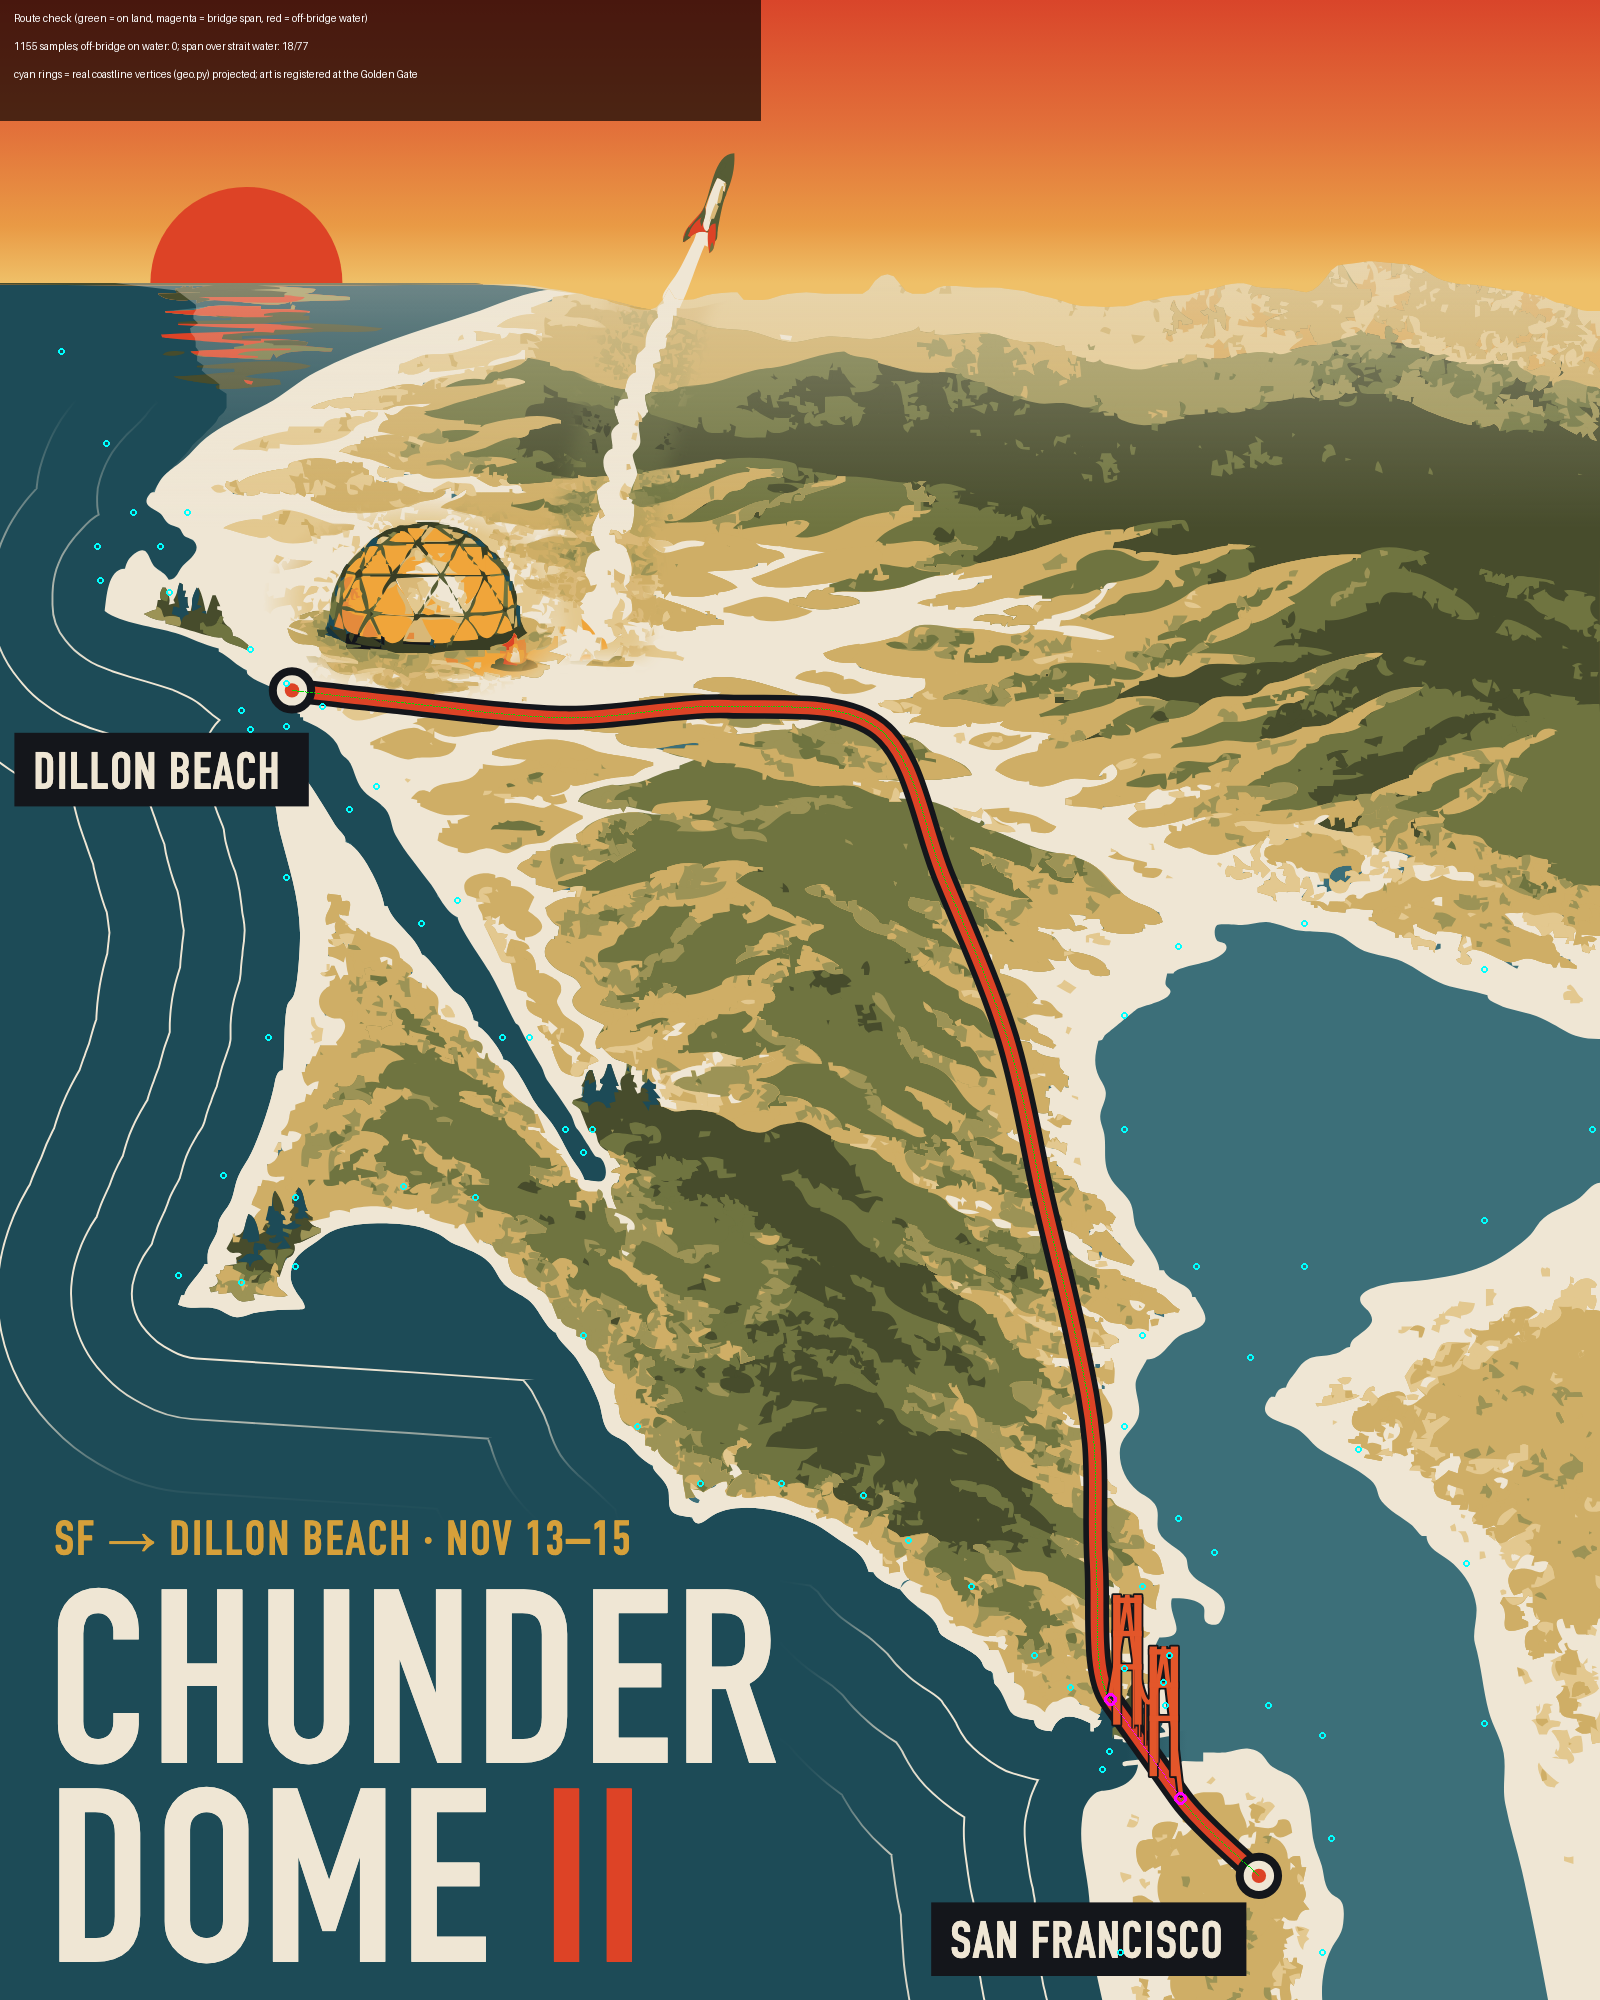
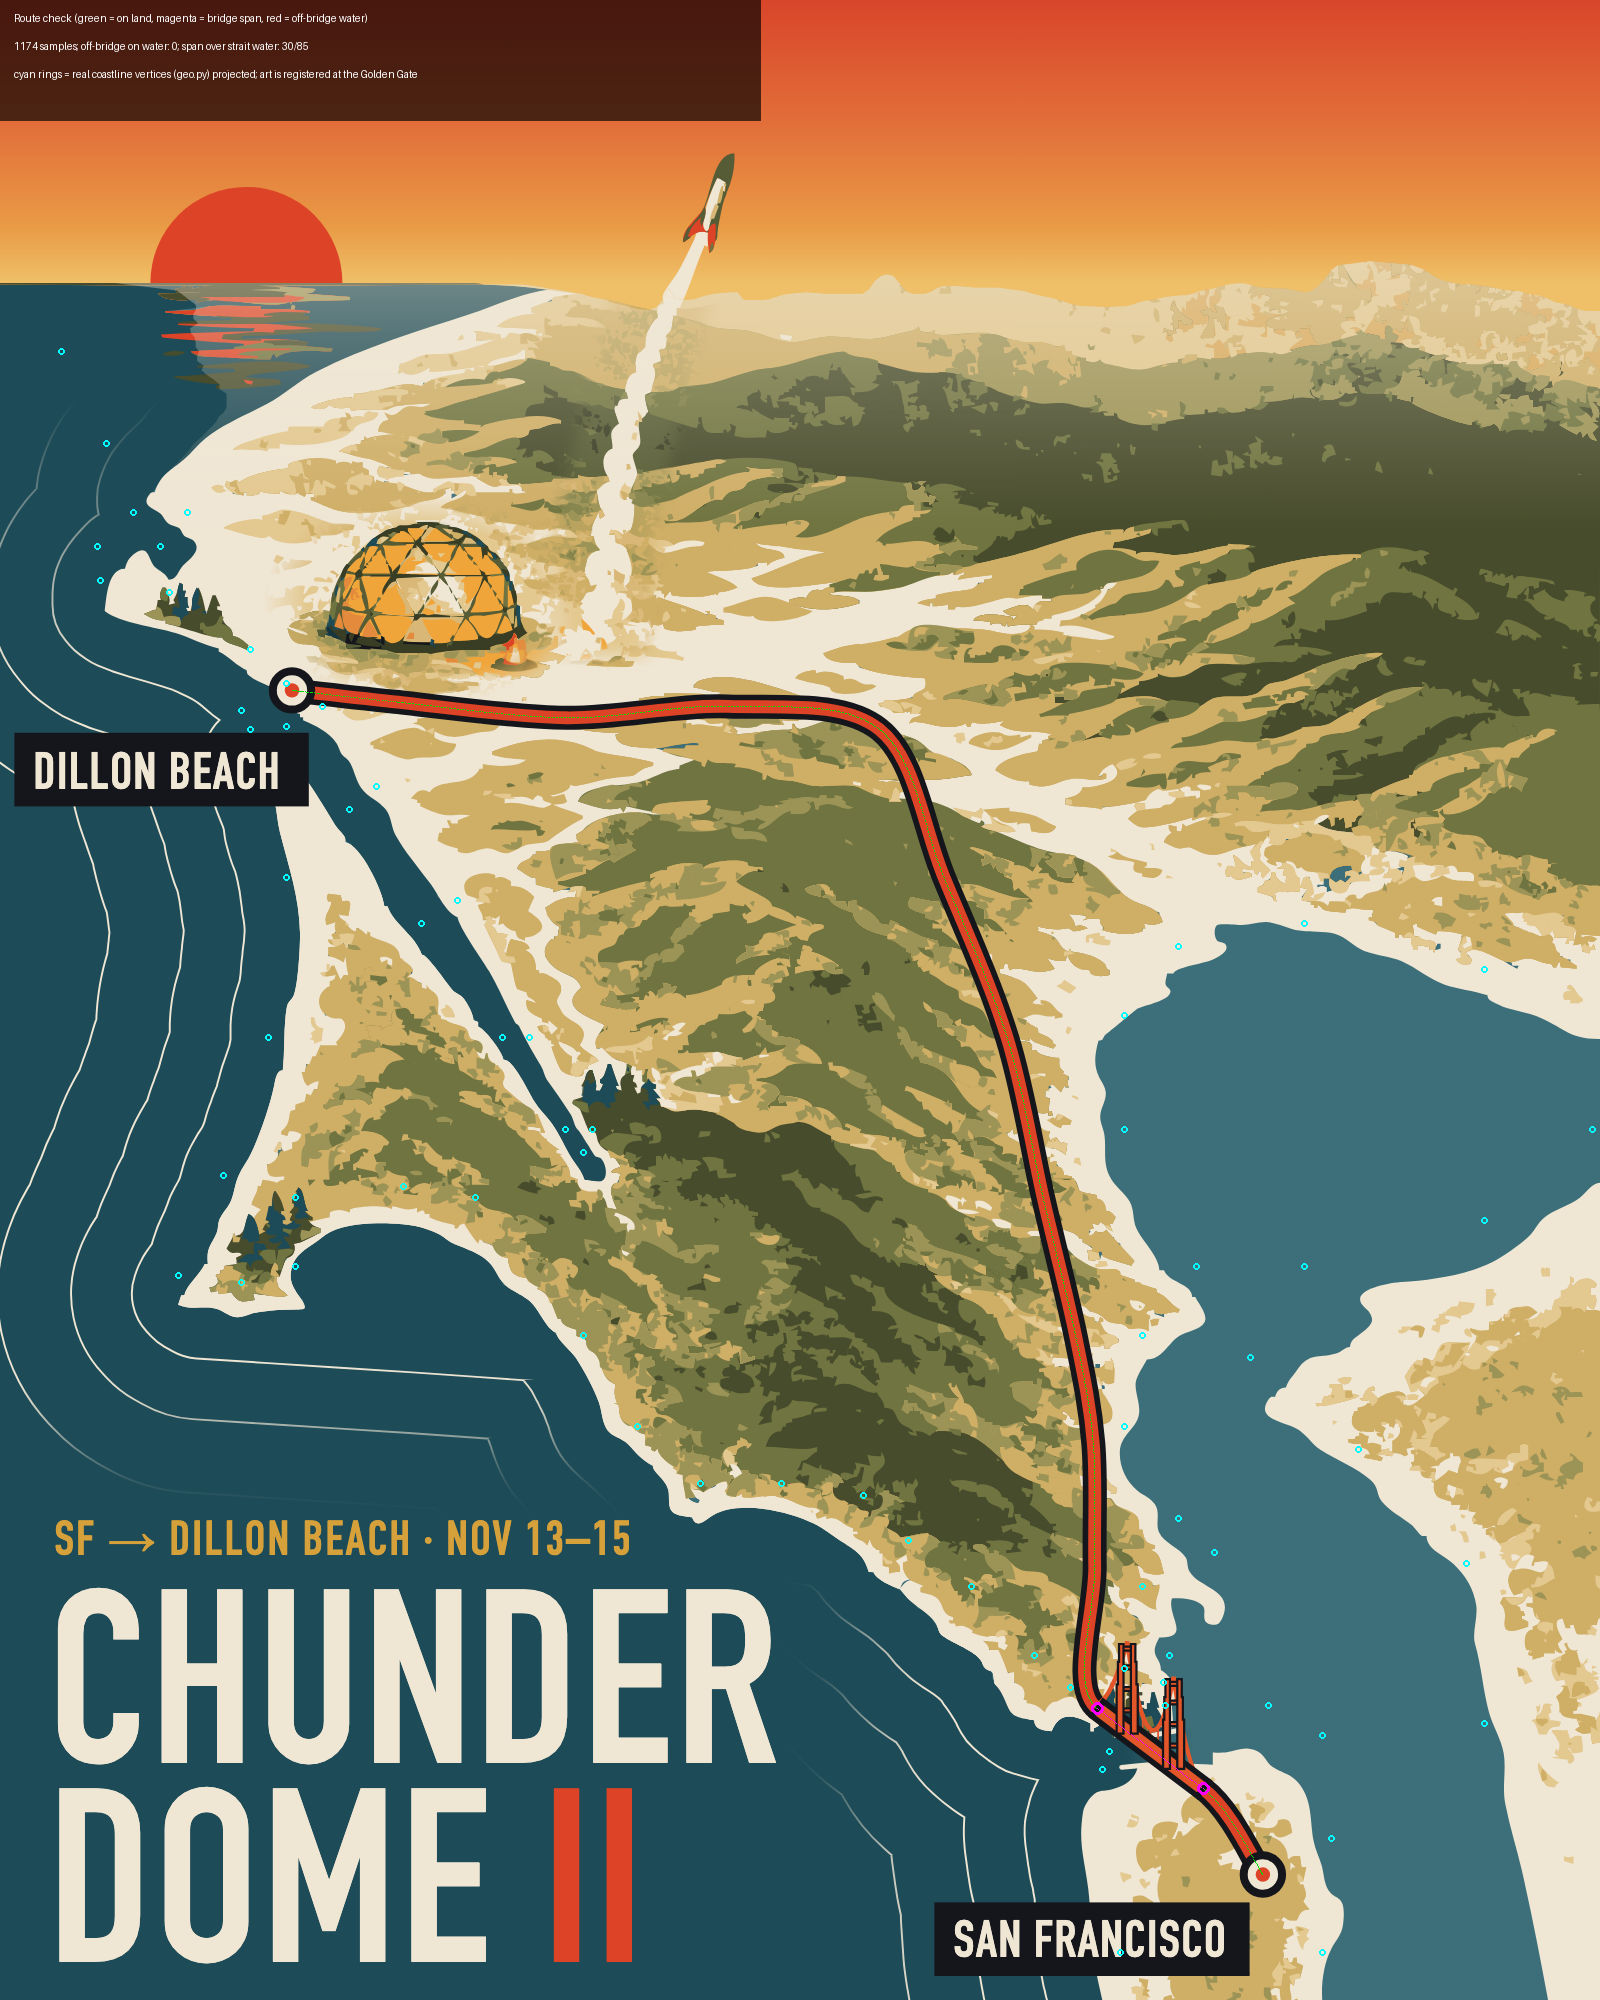
fix: redraw the Golden Gate Bridge cleanly
Upright Art-Deco towers at 28%/72% of a straight deck, one main cable with
catenary main span and vertical hangers, International Orange with a thin
ink outline. The route stops at each anchorage and the deck (same width
as the route) carries it across; strait widened so water reads on both
sides. verify_route.py: 0 of 1174 samples on water off the bridge.

Changed region(s): [[0.5938, 0.775, 0.8125, 0.992]]

diff --git a/map/poster/scripts/compose4.py b/map/poster/scripts/compose4.py
@@ -44,7 +44,7 @@ SOUTH, NORTH = 1, 2   # indices of the bridge anchorages in ROAD
 
 # The art drew the Golden Gate about 40px south of the projection, so register the route to the art with a
 # local displacement field: control points measured on raster-v5 (scripts/gridcrop.py), Gaussian falloff.
-BRIDGE_S, BRIDGE_N = (738.0, 1124.0), (694.0, 1062.0)   # anchorages on the art's SF tip and Marin headland (poster-scale span)
+BRIDGE_S, BRIDGE_N = (752.0, 1118.0), (686.0, 1068.0)   # anchorages on the art's SF tip and Marin headland (poster-scale span)
 CONTROLS = [(P(*ROAD[SOUTH]), BRIDGE_S), (P(*ROAD[NORTH]), BRIDGE_N), (P(*ROAD[0]), (786.0, 1170.0))]
 def register(p, sigma=60.0):
     import math
@@ -62,7 +62,8 @@ deck = (BRIDGE_N[0] - BRIDGE_S[0], BRIDGE_N[1] - BRIDGE_S[1])
 a, b = ROUTE_XY[SOUTH - 1], ROUTE_XY[NORTH + 1]
 head = smooth(ROUTE_XY[:SOUTH + 1], after=(a[0] + 1.6 * deck[0], a[1] + 1.6 * deck[1]))
 tail = smooth(ROUTE_XY[NORTH:], before=(b[0] - 1.6 * deck[0], b[1] - 1.6 * deck[1]))
-route = head + f' L{BRIDGE_N[0]},{BRIDGE_N[1]} ' + tail[tail.index('C'):]
+# The route stops at each anchorage; the bridge deck carries it across the strait.
+route = head + ' ' + tail
 sf, dil = ROUTE_XY[0], ROUTE_XY[-1]
 DOME = (264, 371)
 
@@ -75,36 +76,46 @@ def plate(text, x, y, anchor):
             f'<text x="{x0 + 12:.0f}" y="{y + SIZE*0.36:.0f}" font-size="{SIZE}" fill="{CREAM}">{text}</text>')
 
 # The art closed the Golden Gate with a sandy neck; cut the strait back in (real width ~1.6 km = ~20 px here).
-CHANNEL = 'M684,1086 C700,1088 712,1087 724,1085 C732,1083 740,1081 752,1080 L752,1101 C740,1101 732,1100 724,1100 C712,1101 700,1103 684,1104 Z'
-SHORES = 'M703,1087.6 C712,1087 718,1086 731,1083.6 M703,1102.4 C712,1101.2 718,1100.2 731,1100'
+CHANNEL = 'M680,1085 C698,1087 712,1086 724,1084 C734,1082 744,1080 758,1078 L758,1103 C744,1102 734,1102 724,1102 C712,1103 698,1105 680,1106 Z'
+SHORES = 'M701,1086.4 C712,1086 720,1085 735,1081.8 M701,1104.6 C712,1103.4 720,1102.6 735,1102.2'
 
 def bridge():
-    """Golden Gate Bridge in International Orange: deck on the route, two Art-Deco towers, main cable drape."""
-    (sx, sy), (nx, ny) = BRIDGE_S, BRIDGE_N; H = 80.0; ORANGE = '#e3562a'
+    """Golden Gate Bridge, International Orange with a thin ink outline: a straight deck from anchorage to
+    anchorage, two upright Art-Deco towers at 28% and 72% of the span, one main cable, vertical hangers."""
+    (sx, sy), (nx, ny) = BRIDGE_S, BRIDGE_N
+    ORANGE, H, LINE = '#e3562a', 56.0, 1.4
     at = lambda t: (sx + (nx - sx) * t, sy + (ny - sy) * t)
-    t1, t2 = at(0.24), at(0.76); top1, top2 = (t1[0], t1[1] - H), (t2[0], t2[1] - H)
-    mid = ((top1[0] + top2[0]) / 2, (top1[1] + top2[1]) / 2 + H * 0.62)
-    cable = (f'M{sx:.1f},{sy - 3:.1f} Q{(sx + top1[0]) / 2 + 1:.1f},{(sy + top1[1]) / 2 + 6:.1f} {top1[0]:.1f},{top1[1]:.1f}'
-             f' Q{2 * mid[0] - (top1[0] + top2[0]) / 2:.1f},{2 * mid[1] - (top1[1] + top2[1]) / 2:.1f} {top2[0]:.1f},{top2[1]:.1f}'
-             f' Q{(nx + top2[0]) / 2 - 1:.1f},{(ny + top2[1]) / 2 + 6:.1f} {nx:.1f},{ny - 3:.1f}')
+    deck_y = lambda x: sy + (ny - sy) * (x - sx) / (nx - sx)
+    # deck: the route's own width (8 orange inside a 3.5 ink edge) so the route flows onto it without a step
+    L = ((nx - sx) ** 2 + (ny - sy) ** 2) ** 0.5; ox, oy = -(ny - sy) / L * 5.75, (nx - sx) / L * 5.75
+    deck = f'M{sx+ox:.1f},{sy+oy:.1f} L{nx+ox:.1f},{ny+oy:.1f} L{nx-ox:.1f},{ny-oy:.1f} L{sx-ox:.1f},{sy-oy:.1f} Z'
+    b1, b2 = at(0.28), at(0.72)
+    top1, top2 = (b1[0], b1[1] - H), (b2[0], b2[1] - H)
+    low = at(0.5); low = (low[0], low[1] - H * 0.22)
+    ctrl = (2 * low[0] - (top1[0] + top2[0]) / 2, 2 * low[1] - (top1[1] + top2[1]) / 2)
+    side = lambda a, t: f'Q{(a[0] + t[0]) / 2:.1f},{max(a[1], t[1]) - 4:.1f} {t[0]:.1f},{t[1]:.1f}'
+    cable = (f'M{sx:.1f},{sy - 3:.1f} ' + side((sx, sy - 3), top1)
+             + f' Q{ctrl[0]:.1f},{ctrl[1]:.1f} {top2[0]:.1f},{top2[1]:.1f} ' + side(top2, (nx, ny - 3)))
     hangers = ''
-    for i in range(1, 6):
-        t = 0.24 + 0.52 * i / 6; d = at(t)
-        u = i / 6; cy = (1 - u) ** 2 * top1[1] + 2 * u * (1 - u) * (2 * mid[1] - (top1[1] + top2[1]) / 2) + u * u * top2[1]
-        hangers += f'<line x1="{d[0]:.1f}" y1="{d[1] - 2:.1f}" x2="{d[0]:.1f}" y2="{cy + 1:.1f}"/>'
+    for k in range(1, 6):
+        u = k / 6
+        cx = (1-u)**2 * top1[0] + 2*u*(1-u) * ctrl[0] + u*u * top2[0]
+        cy = (1-u)**2 * top1[1] + 2*u*(1-u) * ctrl[1] + u*u * top2[1]
+        hangers += f'M{cx:.1f},{cy:.1f} V{deck_y(cx) - 5.5:.1f} '
     def tower(base):
-        x, y = base; w = 4.6; gap = 6.6
-        legs = ''.join(f'<rect x="{x + o - w / 2:.1f}" y="{y - H:.1f}" width="{w}" height="{H + 1:.1f}"/>' for o in (-gap, gap))
-        beams = ''.join(f'<rect x="{x - gap - w / 2:.1f}" y="{y - H * f:.1f}" width="{2 * gap + w:.1f}" height="3.4"/>' for f in (0.98, 0.72, 0.46))
-        return legs + beams
-    towers = tower(t1) + tower(t2)
-    return (f'<g id="golden-gate-bridge">'
-            f'<g fill="none" stroke="{INK}" stroke-width="5.4" stroke-linecap="round"><path d="{cable}"/></g>'
-            f'<g stroke="{INK}" stroke-width="2.6">{hangers}</g>'
-            f'<g fill="{INK}" stroke="{INK}" stroke-width="2.2" stroke-linejoin="round">{towers}</g>'
-            f'<g fill="none" stroke="{ORANGE}" stroke-width="2.8" stroke-linecap="round"><path d="{cable}"/></g>'
-            f'<g stroke="{ORANGE}" stroke-width="0.9">{hangers}</g>'
-            f'<g fill="{ORANGE}">{towers}</g></g>')
+        x, y = base; g = 4.6; y = y + 1.5
+        def leg(sign):
+            e = x + sign * g / 2; out = lambda w: e + sign * w
+            pts = [(e, y), (e, y - H), (out(2.8), y - H), (out(2.8), y - 0.8 * H), (out(3.5), y - 0.8 * H),
+                   (out(3.5), y - 0.55 * H), (out(4.3), y - 0.55 * H), (out(4.3), y)]
+            return 'M' + ' L'.join(f'{a:.1f},{b:.1f}' for a, b in pts) + ' Z'
+        struts = ''.join(f'M{x - g/2:.1f},{y - H*f:.1f} H{x + g/2:.1f} V{y - H*f + 2.4:.1f} H{x - g/2:.1f} Z' for f in (0.97, 0.76, 0.52, 0.28))
+        return leg(-1) + ' ' + leg(1) + ' ' + struts
+    return (f'<g id="golden-gate-bridge" stroke-linejoin="miter">'
+            f'<path d="{cable}" fill="none" stroke="{ORANGE}" stroke-width="2.8" stroke-linecap="round"/>'
+            f'<path d="{hangers}" fill="none" stroke="{ORANGE}" stroke-width="1.1"/>'
+            f'<path d="{deck}" fill="{ORANGE}" stroke="{INK}" stroke-width="3.5"/>'
+            f'<path d="{tower(b1)} {tower(b2)}" fill="{ORANGE}" stroke="{INK}" stroke-width="{LINE}"/></g>')
 
 def marker(p):
     return (f'<circle cx="{p[0]:.1f}" cy="{p[1]:.1f}" r="12" fill="{CREAM}" stroke="{INK}" stroke-width="5"/>'
@@ -138,7 +149,7 @@ svg = f'''<svg xmlns="http://www.w3.org/2000/svg" viewBox="0 0 1000 1250" width=
     <ellipse cx="{DOME[0]}" cy="{DOME[1] + 4}" rx="100" ry="66" fill="url(#dome-fade)"/>
     <g filter="url(#soft)"><path d="M352,410 L346,330 L380,190 L425,80 L470,60 L488,90 L440,200 L408,330 L404,410 Z" fill="#fff"/></g>
   </mask>
-  <linearGradient id="strait-water" gradientUnits="userSpaceOnUse" x1="684" y1="0" x2="752" y2="0">
+  <linearGradient id="strait-water" gradientUnits="userSpaceOnUse" x1="680" y1="0" x2="758" y2="0">
     <stop offset="0.3" stop-color="#1d4b57"/><stop offset="0.85" stop-color="#3c6f79"/>
   </linearGradient>
   <filter id="feather" x="-20%" y="-20%" width="140%" height="140%"><feGaussianBlur stdDeviation="22"/></filter>

diff --git a/map/poster/scripts/verify_route.py b/map/poster/scripts/verify_route.py
@@ -9,7 +9,7 @@ from geo import P, OCEAN, BAY
 from matplotlib.path import Path as MPath
 final, ras, out = sys.argv[1:4]
 src = Image.open(ras).convert('RGB'); KR = 1024 / 1000
-strait = MPath([(684,1086),(724,1085),(752,1080),(752,1101),(724,1100),(684,1104)])
+strait = MPath([(680,1085),(724,1084),(758,1078),(758,1103),(724,1102),(680,1106)])
 def water(x, y):
     if strait.contains_point((x, y)): return True
     r, g, b = src.getpixel((int(x * KR), int(y * KR)))
@@ -38,6 +38,8 @@ def on_span(p):
     return 0 <= t <= 1 and abs((p[0]-sx)*dy - (p[1]-sy)*dx) / math.hypot(dx, dy) < 1.5
 
 pts = samples(c.route)
+# The route stops at the anchorages and the deck carries it, so check the deck line as the span.
+pts += samples(f'M{c.BRIDGE_S[0]},{c.BRIDGE_S[1]} L{c.BRIDGE_N[0]},{c.BRIDGE_N[1]}')
 bad = [p for p in pts if water(*p) and not on_span(p)]
 span = [p for p in pts if on_span(p)]
 span_water = [p for p in span if water(*p)]

diff --git a/map/poster/notes.md b/map/poster/notes.md
@@ -113,3 +113,12 @@ The current map comes from `scripts/compose4.py`, using the same Monge art as v3
   - The span between the anchorages is a straight line, and the curves leave each end along the deck.
 - **The bridge:** native vector in International Orange (#e3562a) with ink outlines, matching the route and plates: two Art-Deco towers (legs plus three crossbeams), the main cable drape and hangers. It's drawn at poster scale (towers 80 units tall) so it reads at 390px. The route runs over the deck.
 - **Verification:** `scripts/verify_route.py` samples the route every frame unit (1,155 samples). It classifies each sample against the raster's water (plus the strait cut) and fails on any water outside the bridge span. Result: 0 off-bridge samples on water, and the span crosses the strait (18 of 77 span samples over water; the rest are the approaches). The evidence overlay is `map/poster/route-check.png`. Green is on land, magenta is the bridge span, and cyan rings are the real coastline vertices.
+
+**v4 bridge redraw.** The first v4 bridge stacked its towers diagonally and read as scribble, so it was redrawn as one deliberate drawing:
+- **Deck:** straight, from the SF-tip anchorage (752,1118) to the Marin-tip anchorage (686,1068). It's the route's own width (8 orange inside a 3.5 ink edge), so the route stops at each anchorage and flows onto it.
+- **Towers:** exactly two, upright in screen space, at 28% and 72% of the span. Each is 56 units tall, with stepped Art-Deco legs and four portal struts.
+- **Cable:** one main cable, made of two side spans plus a main-span catenary with its low point at mid-span, and five vertical hangers.
+- **Strokes:** International Orange with a thin ink outline, single-pass paths, no blur.
+- **Strait:** widened slightly so water clearly joins ocean and bay on both sides of the deck.
+
+`verify_route.py` now checks the route plus the deck line: 0 of 1,174 samples are on water off the bridge, and 30 deck samples are over the strait.
